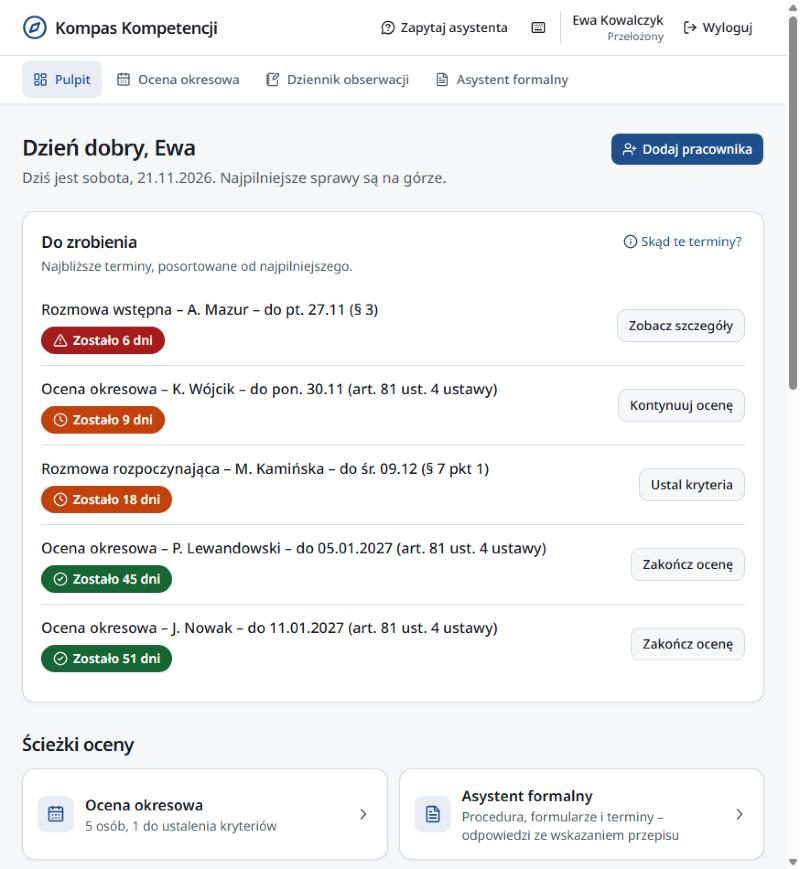
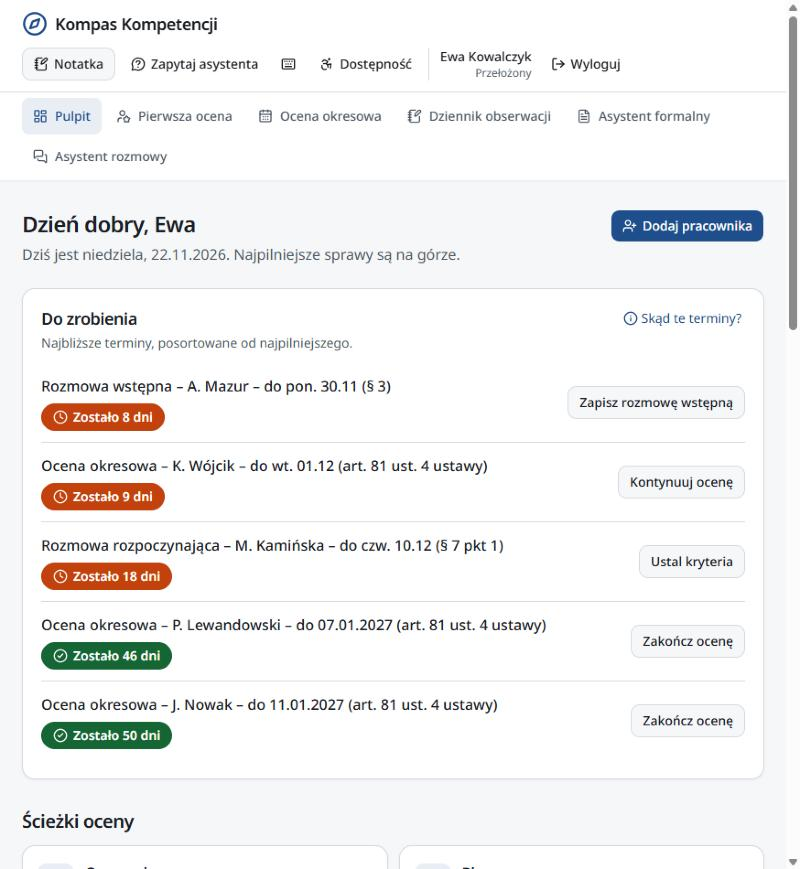
docs(dostepnosc): Z47 w tablicy zadań, wyniki przeglądu WCAG, odświeżone zrzuty ekranu

diff --git a/docs/UX.md b/docs/UX.md
@@ -13,7 +13,7 @@ Podgląd wszystkich komponentów: **`/komponenty`** (po zalogowaniu dowolnym kon
 6. **AI zawsze wygląda tak samo**: tylko `<PropozycjaAI>`.
 7. **Mało klikania**: rozsądne wartości domyślne, karty zamiast list rozwijanych, skróty klawiaturowe.
 8. **Status zawsze widoczny**: kolor + ikona + tekst, nigdy sam kolor.
-9. **Dostępność WCAG 2.1 AA**: kontrast ≥ 4,5:1, obsługa klawiaturą z widocznym fokusem, etykiety pól, `aria-live`, jeden `h1`, cele kliknięcia ≥ 24 px.
+9. **Dostępność WCAG 2.1 AA**: kontrast ≥ 4,5:1, obsługa klawiaturą z widocznym fokusem, etykiety pól, `aria-live`, jeden `h1`, cele kliknięcia ≥ 24 px. Przycisk „Dostępność” (`UstawieniaWyswietlania`) daje tekst 125% i 150% oraz wysoki kontrast (`src/lib/ui/dostepnosc.ts`, style w `globals.css`); stopka prowadzi do `/deklaracja-dostepnosci`. **Progi `sm:`/`md:` nie rosną razem z powiększonym tekstem** (media queries liczą się od domyślnej czcionki przeglądarki) – siatki kafelków i kart budujemy z `grid-cols-[repeat(auto-fit,minmax(…rem,1fr))]` albo `flex-wrap` z `flex-[1_1_…rem]`, żeby przy 150% same przechodziły do nowego wiersza.
 10. **Spokojny, urzędowy wygląd**: Noto Sans, jasne tło, jeden kolor akcentu (granat), fiolet tylko dla AI. Bez logotypów i godła MC oraz gov.pl.
 
 ## Kolory (`src/app/globals.css`)
@@ -118,6 +118,7 @@ Skróty jednoklawiszowe nie działają podczas pisania w polu ani z Ctrl/Cmd/Alt
 | 21.11, 23:00 | axe-core (WCAG 2.1 A/AA) automatycznie, Playwright: 18 ekranów × 4 role (logowanie, pulpit, karta pracownika, ocena okresowa – lista, część I, ocena wskaźników, podsumowanie; dziennik, asystent, panel HR, kierujący, moje oceny, komponenty) | **0 naruszeń**; 36 widoków (768 i 1440 px): 0 błędów konsoli, bez poziomego przewijania, 1 `h1`, 1 `main`, wylogowanie działa w każdej roli. Poprawione przy przeglądzie: przyciski kont demo na logowaniu przy 768 px wychodziły poza karty |
 | 22.11, 00:45 | testy end-to-end Playwright (`npm run e2e`, Z30): 4 role, 16 ekranów przy 768 i 1440 px (przełożona: pulpit, karta pracownika, dziennik i nowa obserwacja, ocena okresowa – lista, część I, ocena wskaźników, podsumowanie, asystent rozmowy, ściąga, tryb rozmowy, asystent formalny; HR: panel, dziennik decyzji, lustro, asystent), tryb rozmowy od startu do zapisu, pełna ocena okresowa z PDF | **11/11 testów**, 0 naruszeń axe (WCAG 2.1 A/AA), 1 `h1` i 1 `main` na każdym ekranie, bez poziomego przewijania, 0 błędów konsoli; złe hasło i wejście przełożonej do panelu HR odrzucone; pełna ocena (7 kryteriów, 25 wskaźników) do „Ocena sporządzona” i arkusz PDF (`application/pdf`) – 7 s czasu technicznego. Poprawione: tryb rozmowy nie miał `h1` w trakcie rozmowy |
 | 22.11, 00:55 | pomiar „pełna ocena w 15 minut” (Z30): ocena okresowa Katarzyny Wójcik od „Oceń” do „Ocena sporządzona” – 7 kryteriów, 25 wskaźników, karty zachowań z notatkami, decyzje, podsumowanie i wnioski do IPRZ, stoper | **2 min 35 s** – członek zespołu, który znał już ekran i szybko czyta (dolna granica, nie wynik typowego użytkownika). Szacunek zespołu dla osoby widzącej ekran pierwszy raz: **ok. 8 minut** (co najmniej 5 minut więcej na czytanie opisów zachowań i notatek) – szacunek, nie pomiar; do sprawdzenia z osobą spoza zespołu. Uwagi: wszystko jasne, nic nie spowalniało. Cel 15 minut spełniony także przy tym szacunku |
+| 22.11, 06:45 | ustawienia wyświetlania i deklaracja dostępności (Z47): axe-core (WCAG 2.1 A/AA) na pulpicie, dzienniku obserwacji, pierwszej ocenie, deklaracji i otwartym panelu „Dostępność” – domyślnie, przy 150% z wysokim kontrastem i przy 125%; sprawdzenie szerokości 375 i 874 px na ekranach przełożonej, HR i logowania | **0 naruszeń**, bez poziomego przewijania. Poprawione przy przeglądzie: przy 150% kafelki panelu HR i karty kont demo na logowaniu nie mieściły tekstu (stałe kolumny `md:`), na telefonie nie zawijały się przyciski nagłówka, przycisk akcji na pulpicie i przełącznik widoku dziennika; przyciski A/A+/A++ miały nazwę dostępną bez widocznego napisu (WCAG 2.5.3) |
 | — | Lighthouse (Z30) | nie wykonano – dostępność sprawdza automatycznie axe w testach end-to-end (wiersz wyżej) |
 
 ## Z10 – co zostało do 100%

diff --git a/README.md b/README.md
@@ -41,6 +41,7 @@ Scenariusz krok po kroku dla jury (ok. 12 minut): **[`docs/DEMO.md`](docs/DEMO.m
 | 🧑💼 | **Kierujący komórką** | pierwsze oceny nowych pracowników komórki z kalendarzem terminów i opisem roli kierującego (porozumienie, rozmowa, podpis, wniosek do dyrektora generalnego) |
 | 🔌 | **REST API** | eksport oceny w JSON pod EZD i system kadrowy (`/api/v1/oceny/{id}`), lista ocen i pracowników z tymi samymi uprawnieniami co ekrany – [`docs/openapi.yaml`](docs/openapi.yaml) |
 | 👤 | **Moje oceny (oceniany)** | pracownik widzi kryteria i termin bieżącej oceny (część I arkusza), a po sporządzeniu – wynik z wyjaśnieniem, uzasadnienie, IPRZ i termin sprzeciwu; sam potwierdza zapoznanie się z oceną |
+| ♿ | **Dostępność** | WCAG 2.1 AA (0 naruszeń axe na ekranach ścieżki demo), przycisk „Dostępność” w nagłówku: większy tekst (125%, 150%) i wysoki kontrast, zapamiętane w przeglądarce; [deklaracja dostępności](https://hacknation-26.vercel.app/deklaracja-dostepnosci) zgodna z ustawą o dostępności cyfrowej |
 | 🔐 | **Role i bezpieczeństwo** | przełożony, HR, oceniany, kierujący; autoryzacja w każdym API i akcji serwerowej (401/403), przełożony widzi wyłącznie swoich podwładnych |
 
 | ![Ocena wskaźników kartami zachowań](docs/zrzuty/03-ocena-wskaznikow.jpg) | ![Asystent formalny ze źródłami](docs/zrzuty/04-asystent.jpg) |

diff --git a/docs/ZADANIA.md b/docs/ZADANIA.md
@@ -65,6 +65,7 @@ Kolejność: najpierw ★, potem pozostałe P0, potem P1 (w kolejności z tabeli
 | ★Z29 | Publiczne demo | Z04, Z26 | gotowe | suzanne0401 | `z29-publiczne-demo` |
 | ★Z44 | Reset danych demo i działanie bez AI | Z20, Z26 | gotowe | Nadia | `z44-zabezpieczenia-demo` |
 | Z30 | Testy ręczne, Playwright, dostępność, pomiar czasu oceny | Z15, Z16 | gotowe | bartektymochowicz-collab | `bartek/z30-testy` |
+| Z47 | Dostępność: ustawienia wyświetlania (tekst 125/150%, wysoki kontrast), deklaracja dostępności, poprawki układu przy powiększonym tekście | Z10, Z30 | gotowe | suzanne0401 | `main` |
 | Z31 | Dokumentacja (`README`, `docs/`) | całość | gotowe (aktualizacja przed zgłoszeniem) | suzanne0401 | `z31-dokumentacja` |
 | Z32 | Prezentacja, film, pitch | Z25, Z30 | wolne | | |
 | ★Z33 | Zgłoszenie finalne w HackTribe (ok. 08:00) | Z29, Z31, Z32 | wolne | | |

diff --git a/docs/DEMO.md b/docs/DEMO.md
@@ -86,5 +86,7 @@ Każde źródło można rozwinąć – widać cytat i miejsce w dokumencie (para
 
 ## Dla ciekawych
 
+- Dostępność: przycisk **„Dostępność”** w nagłówku (i na ekranie logowania) – tekst 125% albo 150% i wysoki kontrast, zapamiętane w przeglądarce; w stopce **„Deklaracja dostępności”** zgodna z ustawą o dostępności cyfrowej. Ekrany ścieżki demo: 0 naruszeń WCAG 2.1 A/AA (axe).
+
 - Zestaw testowy asystenta: **25/25 trafnych odpowiedzi ze źródłem i 5/5 poprawnych odmów** – [`eval/wynik.md`](../eval/wynik.md).
 - Jak działa AI i gdzie celowo go nie ma: [`AI.md`](AI.md). Architektura: [`ARCHITEKTURA.md`](ARCHITEKTURA.md). Bezpieczeństwo: [`BEZPIECZENSTWO.md`](BEZPIECZENSTWO.md).
